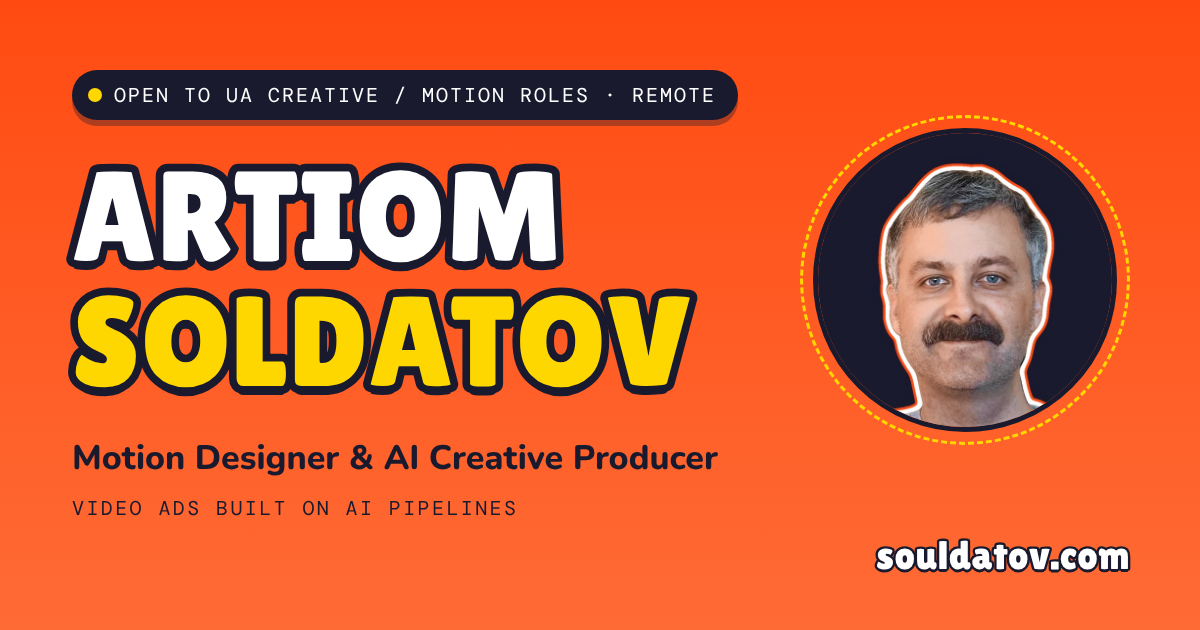
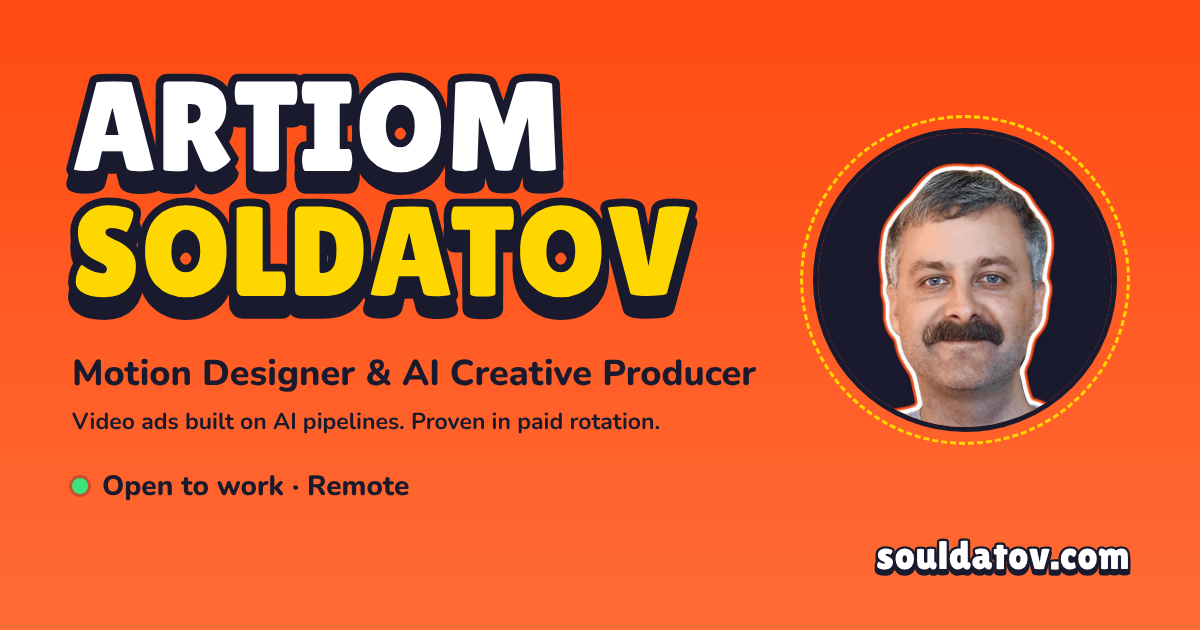
Share image matches the current hero
Drop the old status pill; full tagline in Nunito; 'Open to work · Remote'
with the green dot under it; drop-shadow under the outlined type as on the
site. Bump og:image and twitter:image to ?v=2 so caches refetch.

Claude-Session: https://claude.ai/code/session_01SfMKfz4feBeXARid9poGT3

Changed region(s): [[0.0308, 0.0905, 0.6475, 0.6333], [0.0617, 0.6635, 0.6167, 0.8143], [0.74, 0.9048, 0.9558, 0.9349]]

diff --git a/.dev/brand/og.html b/.dev/brand/og.html
@@ -1,23 +1,24 @@
 <!DOCTYPE html><html><head><meta charset="utf-8">
-<link href="https://fonts.googleapis.com/css2?family=DM+Mono:wght@400&family=Lilita+One&family=Nunito:wght@700;800&display=swap" rel="stylesheet">
+<link href="https://fonts.googleapis.com/css2?family=Lilita+One&family=Nunito:wght@700;800&display=swap" rel="stylesheet">
 <style>
 *{margin:0;padding:0;box-sizing:border-box}
 body{width:1200px;height:630px;background:linear-gradient(180deg,#FF4B12 0%,#FF6B35 100%);font-family:'Nunito',sans-serif;position:relative;overflow:hidden}
-.wrap{position:absolute;left:72px;top:70px;right:440px}
-.pill{display:inline-flex;align-items:center;gap:12px;background:#1A1A2E;color:#fff;font-family:'DM Mono',monospace;font-size:20px;letter-spacing:.1em;text-transform:uppercase;padding:12px 22px 12px 16px;border-radius:999px;box-shadow:0 6px 0 rgba(26,26,46,.35)}
-.pill i{width:14px;height:14px;border-radius:50%;background:#FFD700;display:block}
-.name{font-family:'Lilita One';font-size:128px;line-height:.98;text-transform:uppercase;margin-top:34px;-webkit-text-stroke:.12em #1A1A2E;paint-order:stroke fill;text-shadow:0 .07em 0 #1A1A2E;letter-spacing:.01em}
+.wrap{position:absolute;left:72px;top:64px;right:440px}
+.status{display:inline-flex;align-items:center;gap:14px;margin-top:30px;font-weight:800;font-size:28px;color:#1A1A2E}
+.status i{width:16px;height:16px;border-radius:50%;background:#3BE37A;box-shadow:0 0 0 3px rgba(26,26,46,.25);display:block}
+.name{font-family:'Lilita One';font-size:128px;line-height:.98;text-transform:uppercase;margin-top:0;-webkit-text-stroke:.12em #1A1A2E;paint-order:stroke fill;filter:drop-shadow(0 .12em 0 #1A1A2E);letter-spacing:.01em}
 .a{color:#fff}.b{color:#FFD700}
-.role{font-weight:800;font-size:34px;color:#1A1A2E;margin-top:30px}
-.tag{font-family:'DM Mono',monospace;font-size:20px;letter-spacing:.12em;text-transform:uppercase;color:#1A1A2E;margin-top:14px}
+.role{font-weight:800;font-size:36px;color:#1A1A2E;margin-top:34px}
+.tag{font-weight:700;font-size:23px;line-height:1.35;color:#1A1A2E;margin-top:8px}
 .photo{position:absolute;right:70px;top:115px;width:330px;height:330px;border-radius:50%;padding:10px;border:3px dashed #FFD700}
 .photo img{width:100%;height:100%;border-radius:50%;border:5px solid #1A1A2E;display:block;object-fit:cover}
-.url{position:absolute;right:70px;bottom:52px;font-family:'Lilita One';font-size:40px;color:#fff;-webkit-text-stroke:.12em #1A1A2E;paint-order:stroke fill;text-shadow:0 .07em 0 #1A1A2E;letter-spacing:.01em}
+.url{position:absolute;right:70px;bottom:52px;font-family:'Lilita One';font-size:40px;color:#fff;-webkit-text-stroke:.12em #1A1A2E;paint-order:stroke fill;filter:drop-shadow(0 .12em 0 #1A1A2E);letter-spacing:.01em}
 </style></head><body>
-<div class="wrap"><div class="pill"><i></i>Open to UA Creative / Motion roles · Remote</div>
+<div class="wrap">
 <div class="name"><div class="a">Artiom</div><div class="b">Soldatov</div></div>
 <div class="role">Motion Designer &amp; AI Creative Producer</div>
-<div class="tag">Video ads built on AI pipelines</div></div>
+<div class="tag">Video ads built on AI pipelines. Proven in paid rotation.</div>
+<div class="status"><i></i>Open to work · Remote</div></div>
 <div class="photo"><img src="photo.jpg"></div>
 <div class="url">souldatov.com</div>
 </body></html>

diff --git a/index.html b/index.html
@@ -32,11 +32,11 @@
 <meta property="og:url" content="https://souldatov.com/">
 <meta property="og:title" content="Artiom Soldatov – Motion Designer & AI Creative Producer">
 <meta property="og:description" content="Video ads built on AI pipelines. Proven in paid rotation. Open to UA Creative / Motion roles, remote.">
-<meta property="og:image" content="https://souldatov.com/og-image.png?v=1">
+<meta property="og:image" content="https://souldatov.com/og-image.png?v=2">
 <meta property="og:image:width" content="1200">
 <meta property="og:image:height" content="630">
 <meta name="twitter:card" content="summary_large_image">
-<meta name="twitter:image" content="https://souldatov.com/og-image.png?v=1">
+<meta name="twitter:image" content="https://souldatov.com/og-image.png?v=2">
 <link rel="apple-touch-icon" href="apple-touch-icon.png?v=2">
 <link rel="preconnect" href="https://fonts.googleapis.com">
 <link rel="preconnect" href="https://fonts.gstatic.com" crossorigin>
